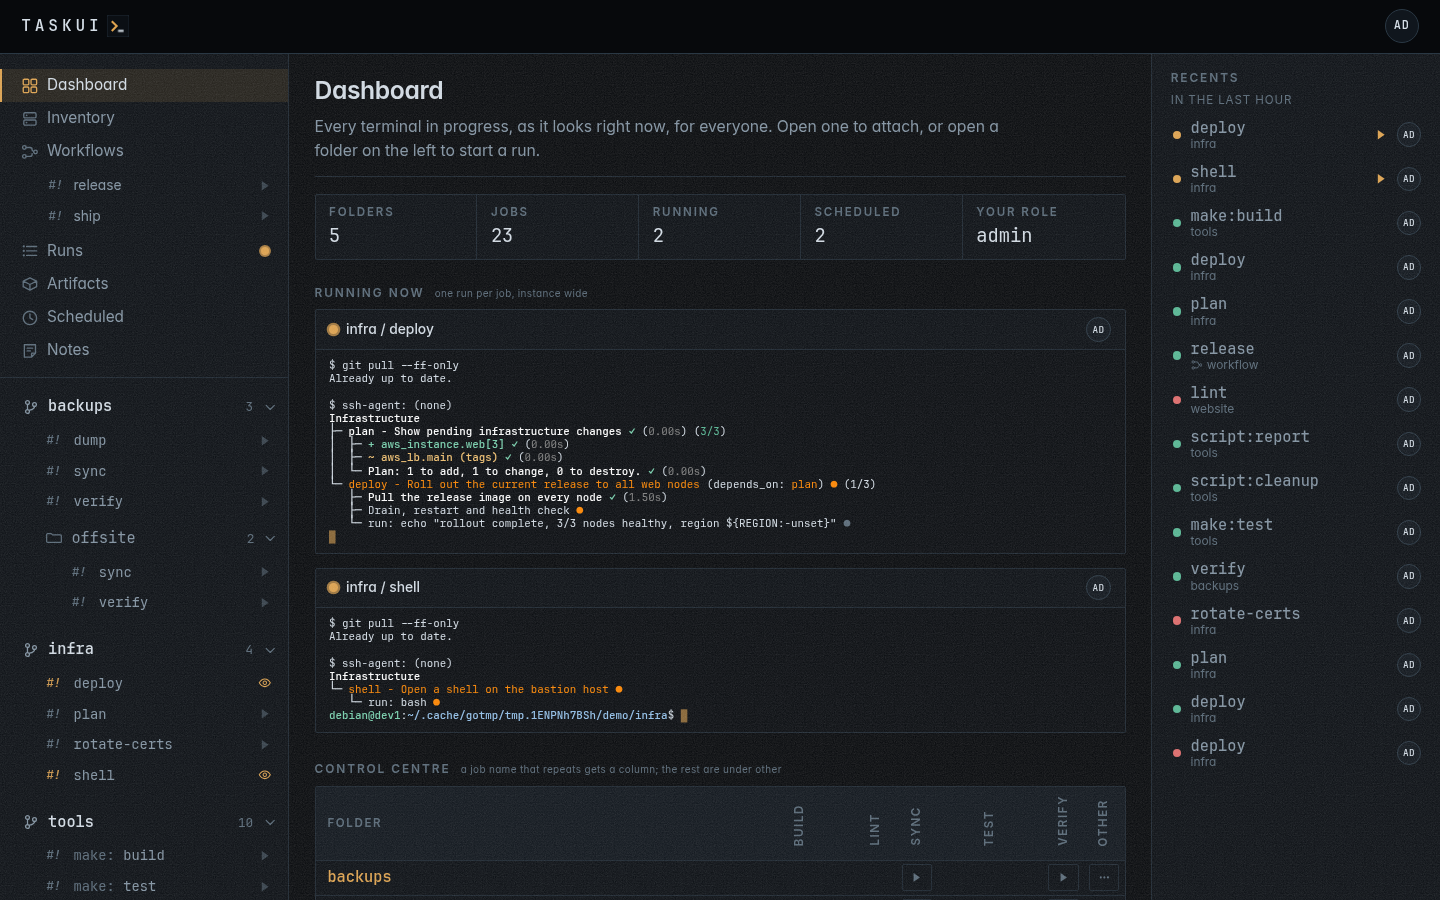
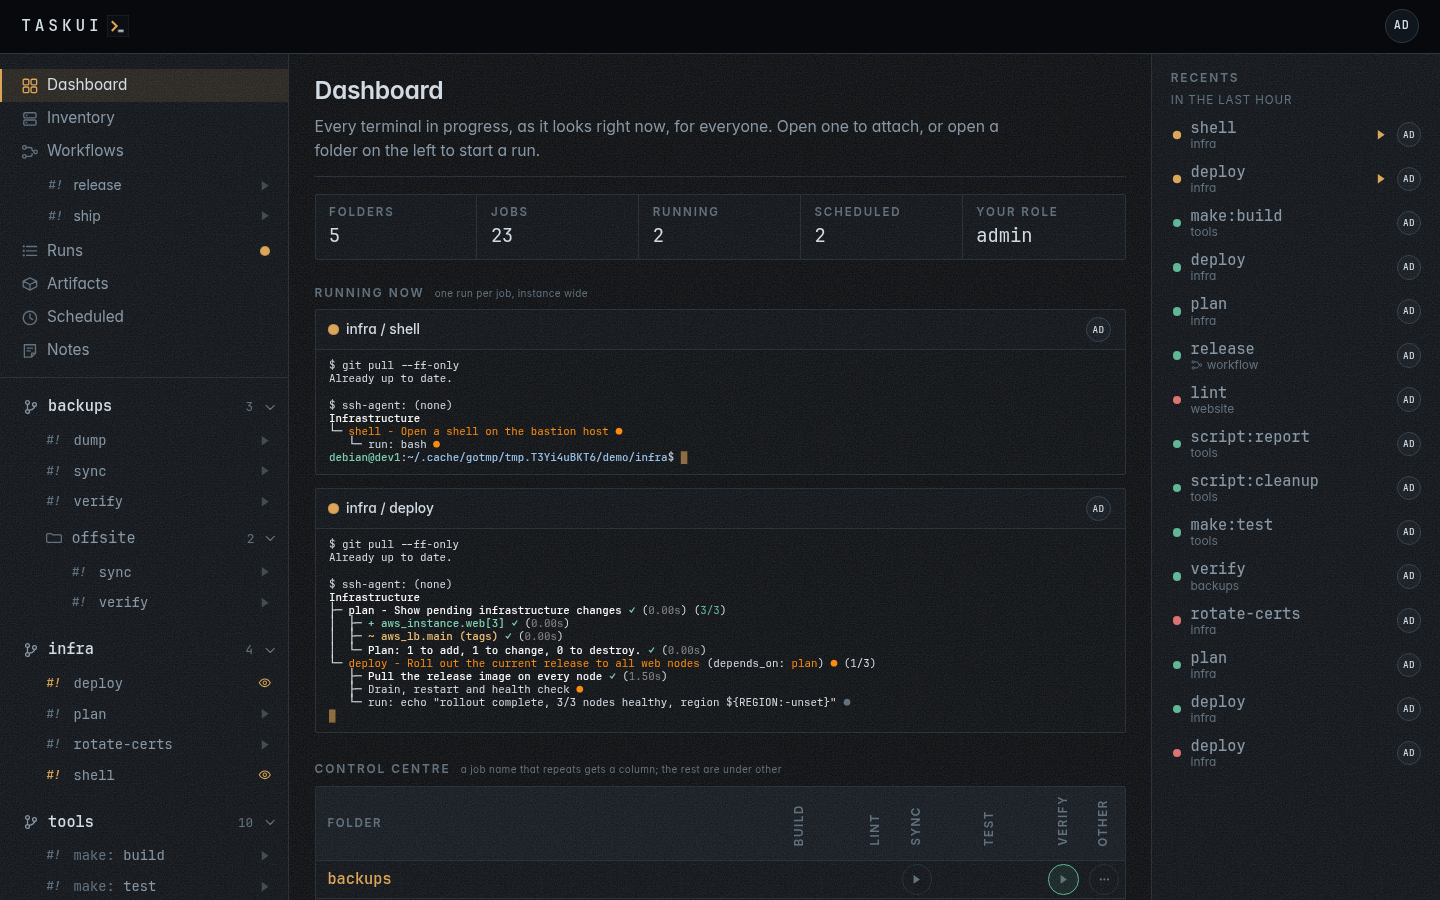
Dashboard: play buttons in the colour of the job's last run, a lit column
The control centre's buttons are circles, green when the job's last run
succeeded, red when it failed or someone stopped or killed it, grey when
it never ran. RunStorage.Latest picks the latest finished run of every
job with a window query; a slot keeps its colour in data-last and the
script recolours it when a run ends. The table lights the column under
the pointer. The runs filter row fits one line at 1440px.

diff --git a/frontend/view/assets/task-ui.js b/frontend/view/assets/task-ui.js
@@ -1788,7 +1788,8 @@
   // The dashboard follows the runs topic too: a run that starts adds its
   // tile, polled for its frame; one that ends marks its tile and the last
   // frame is fetched. The running count and the control centre's buttons
-  // follow: an eye on the job running, Run again when it ended.
+  // follow: an eye on the job running, Run again when it ended, in the
+  // colour of how it ended. A slot keeps that colour in data-last.
   var dashboard = document.querySelector('[data-sse="runs"][data-dashboard]');
   if (dashboard && window.EventSource) {
     var tiles = dashboard.querySelector("[data-tiles]");
@@ -1802,16 +1803,18 @@
     var slotHTML = function (slot, run) {
       var label = slot.dataset.label ? "<span>" + escapeHTML(slot.dataset.label) + "</span>" : "";
       var named = slot.dataset.label ? " named" : "";
+      if (run && run.state && run.state !== "running") slot.dataset.last = run.state === "ok" ? "ok" : "bad";
+      var last = " " + escapeHTML(slot.dataset.last || "never");
       var what = escapeHTML(slot.dataset.folder + " / " + slot.dataset.name);
       if (run && run.state === "running") {
         return '<a class="cc' + named + ' running" href="/runs/' + escapeHTML(run.id) + '" data-attach="' + escapeHTML(run.id) +
           '" title="Attach to ' + what + ', running"><svg class="ic"><use href="#i-eye"/></svg>' + label + "</a>";
       }
       if (slot.hasAttribute("data-can")) {
-        return '<button type="button" class="cc' + named + '" data-run data-folder="' + escapeHTML(slot.dataset.folder) + '" data-job="' +
+        return '<button type="button" class="cc' + named + last + '" data-run data-folder="' + escapeHTML(slot.dataset.folder) + '" data-job="' +
           escapeHTML(slot.dataset.job) + '" data-title="' + what + '" title="Run ' + what + '"><svg class="ic"><use href="#i-play"/></svg>' + label + "</button>";
       }
-      return '<a class="cc' + named + ' idle" href="/f/' + escapeHTML(slot.dataset.folder) + "/" + escapeHTML(slot.dataset.job) + '" title="' + what +
+      return '<a class="cc' + named + " idle" + last + '" href="/f/' + escapeHTML(slot.dataset.folder) + "/" + escapeHTML(slot.dataset.job) + '" title="' + what +
         ': your role may not run it"><i class="shebang" aria-hidden="true">#!</i>' + label + "</a>";
     };
     onRuns(function (run) {
@@ -1845,6 +1848,27 @@
       countRunning();
     });
   }
+
+  // A table with col-hover lights the column under the pointer, every
+  // cell of it, so a job is easy to follow down the folders.
+  document.querySelectorAll("table.col-hover").forEach(function (table) {
+    var hot = -1;
+    var light = function (index) {
+      if (index === hot) return;
+      hot = index;
+      table.querySelectorAll(".col-hot").forEach(function (cell) { cell.classList.remove("col-hot"); });
+      if (index < 0) return;
+      Array.prototype.forEach.call(table.rows, function (row) {
+        var cell = row.cells[index];
+        if (cell && row.cells.length > 1) cell.classList.add("col-hot");
+      });
+    };
+    table.addEventListener("mouseover", function (event) {
+      var cell = event.target.closest("td, th");
+      if (cell && table.contains(cell)) light(cell.cellIndex);
+    });
+    table.addEventListener("mouseleave", function () { light(-1); });
+  });
 
   // A file picker fills the field it names, so a key can be chosen or pasted.
   document.addEventListener("change", function (event) {

diff --git a/frontend/view/assets/css/control.css b/frontend/view/assets/css/control.css
@@ -88,6 +88,7 @@
   width: 100%;
   height: 1.9rem;
   border-color: transparent;
+  background: transparent;
   text-align: left;
 }
 
@@ -105,10 +106,10 @@
   min-width: 1.8rem;
   height: 1.6rem;
   padding: 0 0.4rem;
-  border: 1px solid var(--line);
+  border: 1px solid var(--cc-line, var(--line));
   border-radius: var(--radius);
-  background: transparent;
-  color: var(--text-dim);
+  background: var(--cc-wash, transparent);
+  color: var(--cc, var(--text-dim));
   font: inherit;
   font-size: 0.78rem;
   cursor: pointer;
@@ -117,6 +118,32 @@
 .cc .ic {
   width: 0.75rem;
   height: 0.75rem;
+}
+
+/* A job's button without a name is a circle. */
+.cc:not(.named) {
+  width: 1.8rem;
+  height: 1.8rem;
+  padding: 0;
+  border-radius: 50%;
+}
+
+/* The colour of the job's last run: green when it went well, red when it
+   failed, was stopped or killed, grey when the job never ran. */
+.cc.ok {
+  --cc: var(--ok);
+  --cc-line: var(--ok);
+  --cc-wash: var(--ok-wash);
+}
+
+.cc.bad {
+  --cc: var(--bad);
+  --cc-line: var(--bad);
+  --cc-wash: var(--bad-wash);
+}
+
+.cc.never {
+  --cc: var(--text-faint);
 }
 
 .cc:hover {
@@ -137,6 +164,6 @@
 }
 
 .cc.idle:hover {
-  color: var(--text-dim);
-  background: transparent;
+  color: var(--cc, var(--text-dim));
+  background: var(--cc-wash, transparent);
 }

diff --git a/frontend/view/assets/css/tables.css b/frontend/view/assets/css/tables.css
@@ -38,6 +38,16 @@ table.table {
   background: var(--ink-2);
 }
 
+/* A table with col-hover lights the column under the pointer too; the
+   script marks its cells col-hot, the head a step darker. */
+.table.col-hover .col-hot {
+  background: var(--ink-2);
+}
+
+.table.col-hover th.col-hot {
+  background: var(--ink-3);
+}
+
 .table td.actions {
   text-align: right;
   white-space: nowrap;

diff --git a/frontend/view/assets/css/filters.css b/frontend/view/assets/css/filters.css
@@ -21,7 +21,7 @@
 
 .filters input,
 .filters select {
-  width: 12rem;
+  width: 11rem;
   padding: 0 0.55rem;
 }
 

diff --git a/frontend/view/assets/css/forms.css b/frontend/view/assets/css/forms.css
@@ -194,7 +194,7 @@ select {
 }
 
 .filters .dd {
-  width: 12rem;
+  width: 11rem;
 }
 
 .filters .page-size select,

diff --git a/frontend/home_test.go b/frontend/home_test.go
@@ -37,14 +37,20 @@ func TestHome_Control(t *testing.T) {
 	t.Parallel()
 	f := newFixture(t)
 	session := f.start(t, f.infra, "slow")
+	f.run(t, "infra", "plan", "ops", model.StateOK)
+	f.run(t, "infra/edge", "deploy", "ops", model.StateStopped)
 
 	body := f.page(t, asOps, "/")
+	// The table lights the column under the pointer.
+	assert.Contains(t, body, `<table class="table control col-hover">`)
 	// deploy occurs twice, so it gets a column, its name on end; a cell
 	// with the one job is a bare button.
 	assert.Contains(t, body, `<thead><tr><th>Folder</th><th class="col"><span>deploy</span></th><th class="col"><span>other</span></th></tr></thead>`)
 	edge := body[strings.Index(body, `<a href="/f/infra/edge">infra/edge</a>`):]
 	edge = edge[:strings.Index(edge, "</tr>")]
-	assert.Contains(t, edge, `<button type="button" class="cc" data-run data-folder="infra/edge" data-job="deploy"`)
+	// Its last run ended stopped: a red button.
+	assert.Contains(t, edge, `<button type="button" class="cc bad" data-run data-folder="infra/edge" data-job="deploy"`)
+	assert.Contains(t, edge, `data-last="bad"`)
 
 	infra := body[strings.Index(body, `<td class="key nowrap"><a href="/f/infra">infra</a>`):]
 	infra = infra[:strings.Index(infra, "</tr>")]
@@ -53,16 +59,17 @@ func TestHome_Control(t *testing.T) {
 	assert.Contains(t, infra, `<details class="cc-more">`)
 	assert.Contains(t, infra, `<summary class="cc" title="3 more jobs of infra"`)
 	assert.Contains(t, infra, `<div class="cc-menu" role="menu">`)
-	assert.Contains(t, infra, `class="cc named" data-run data-folder="infra" data-job="plan"`)
+	assert.Contains(t, infra, `class="cc named ok" data-run data-folder="infra" data-job="plan"`)
 	assert.Contains(t, infra, `<span>plan</span>`)
 	assert.Contains(t, infra, `<a class="cc named running" href="/runs/`+session.ID()+`"`) // slow runs
 	// Each button sits in a slot the page redraws from the run events.
-	assert.Contains(t, infra, `<span class="cc-slot" data-cc="infra/plan" data-folder="infra" data-job="plan" data-name="plan" data-label="plan" data-can>`)
+	assert.Contains(t, infra, `<span class="cc-slot" data-cc="infra/plan" data-folder="infra" data-job="plan" data-name="plan" data-label="plan" data-last="ok" data-can>`)
 
 	// ops may not run private's deploy: a #! to its page instead.
 	private := body[strings.Index(body, `<a href="/f/private">private</a>`):]
 	private = private[:strings.Index(private, "</tr>")]
-	assert.Contains(t, private, `<a class="cc idle" href="/f/private/deploy"`)
+	// It never ran: grey.
+	assert.Contains(t, private, `<a class="cc idle never" href="/f/private/deploy"`)
 	assert.NotContains(t, private, "data-run")
 	assert.NotContains(t, private, "data-can")
 

diff --git a/frontend/home.go b/frontend/home.go
@@ -4,6 +4,7 @@ import (
 	"net/http"
 
 	"github.com/titpetric/task-ui/access"
+	"github.com/titpetric/task-ui/folder"
 	"github.com/titpetric/task-ui/frontend/view"
 	"github.com/titpetric/task-ui/model"
 )
@@ -15,6 +16,7 @@ func (h *Handlers) home(w http.ResponseWriter, r *http.Request) {
 	p := h.page(r, "Dashboard")
 	p.Runs = h.live(user)
 	p.Control = view.NewControl(p.Folders, view.ControlRepeats)
+	p.Last = h.latestRuns(r, p.Folders)
 	schedules, _ := h.opts.Schedules.List(r.Context())
 	for _, schedule := range schedules {
 		if user.CanSee(schedule.Folder) {
@@ -22,6 +24,27 @@ func (h *Handlers) home(w http.ResponseWriter, r *http.Request) {
 		}
 	}
 	h.render(w, http.StatusOK, "home", p)
+}
+
+// latestRuns returns the latest finished run of each job of the folders,
+// by job key, for the control centre to colour its buttons by.
+func (h *Handlers) latestRuns(r *http.Request, folders []*folder.Folder) map[string]view.Run {
+	if len(folders) == 0 {
+		return nil
+	}
+	ids := make([]string, 0, len(folders))
+	for _, f := range folders {
+		ids = append(ids, f.ID)
+	}
+	runs, err := h.opts.Runs.Latest(r.Context(), ids)
+	if err != nil {
+		return nil
+	}
+	last := make(map[string]view.Run, len(runs))
+	for _, run := range runs {
+		last[run.Key()] = h.runView(run)
+	}
+	return last
 }
 
 // visibleSchedules returns the schedules of a folder, or of a job of it.

diff --git a/storage/run_storage_test.go b/storage/run_storage_test.go
@@ -104,6 +104,37 @@ func TestRunStorage_Last(t *testing.T) {
 	assert.Equal(t, "new", last.UserName)
 }
 
+func TestRunStorage_Latest(t *testing.T) {
+	t.Parallel()
+	ctx := context.Background()
+	runs := storage.NewRunStorage(newDB(t))
+	base := time.Now().Add(-time.Hour)
+	for i, run := range []model.Run{
+		{Folder: "infra", Job: "deploy", State: model.StateFailed},
+		{Folder: "infra", Job: "deploy", State: model.StateOK},
+		{Folder: "infra", Job: "deploy"},
+		{Folder: "infra", Job: "plan", State: model.StateKilled},
+		{Folder: "web", Job: "build", State: model.StateOK},
+	} {
+		started := base.Add(time.Duration(i) * time.Minute)
+		run.StartedAt = &started
+		assert.NoError(t, runs.Create(ctx, &run))
+	}
+
+	latest, err := runs.Latest(ctx, []string{"infra"})
+	assert.NoError(t, err)
+	assert.Len(t, latest, 2)
+	assert.Equal(t, "infra/deploy", latest[0].Key())
+	assert.Equal(t, model.StateOK, latest[0].State, "the running one is not finished")
+	assert.Equal(t, "infra/plan", latest[1].Key())
+	assert.Equal(t, model.StateKilled, latest[1].State)
+
+	all, err := runs.Latest(ctx, nil)
+	assert.NoError(t, err)
+	assert.Len(t, all, 3)
+	assert.Equal(t, "web/build", all[2].Key())
+}
+
 func TestRunStorage_Update(t *testing.T) {
 	t.Parallel()
 	ctx := context.Background()

diff --git a/storage/run_storage.go b/storage/run_storage.go
@@ -139,6 +139,25 @@ func (s *RunStorage) Last(ctx context.Context, filter RunFilter) (*model.Run, er
 	return &runs[0], nil
 }
 
+// Latest returns the latest finished run of every job of the folders,
+// every folder for none, a run per folder and job.
+func (s *RunStorage) Latest(ctx context.Context, folders []string) ([]model.Run, error) {
+	where := "state != ?"
+	args := []any{model.StateRunning}
+	if len(folders) > 0 {
+		where += " AND folder IN (?" + strings.Repeat(", ?", len(folders)-1) + ")"
+		for _, folder := range folders {
+			args = append(args, folder)
+		}
+	}
+	return client(s.db).Select[model.Run](ctx, `SELECT * FROM run WHERE id IN (
+		SELECT id FROM (
+			SELECT id, ROW_NUMBER() OVER (PARTITION BY folder, job ORDER BY started_at DESC, id DESC) AS latest
+			FROM run WHERE `+where+`
+		) WHERE latest = 1
+	) ORDER BY folder, job`, args...)
+}
+
 // Update writes a run back, by ID.
 func (s *RunStorage) Update(ctx context.Context, run *model.Run) error {
 	run.UpdatedAt = stamp()

diff --git a/docs/guide/dashboard.md b/docs/guide/dashboard.md
@@ -35,8 +35,14 @@ with the action of each. The button takes the running colour while one
 of them runs. A folder with more than one source shows the kind on the
 button (`make`, `npm`) where a name is there more than once.
 
-A button runs the job, or, while it runs, attaches to it. Its `#!` mark
-says how the job last ended.
+A button runs the job, or, while it runs, attaches to it. A role that
+may not run the job sees a `#!` mark that links to the job's page. The
+button and the mark take the colour of the job's last run: green when it
+succeeded, red when it failed or someone stopped or killed it, grey when
+the job has no runs. A run that ends recolours its button with no reload.
+
+Under the pointer the whole column lights up, so one job reads down every
+folder at once.
 
 ---
 
